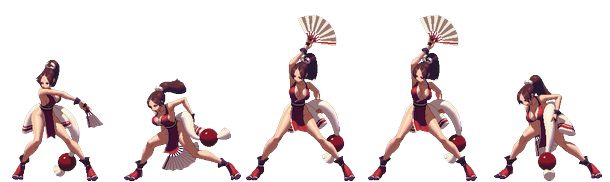
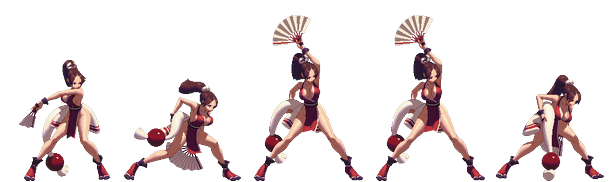
v32b: mirror Mia's sprites so she faces the enemy
Claude-Session: https://claude.ai/code/session_01LZUV48qdYMYHo9JstmyNRU

Changed region(s): [[0.0, 0.0824, 0.9967, 1.0]]

diff --git a/public/index.html b/public/index.html
@@ -1942,7 +1942,7 @@ const ARMOR_OV = {
 */
 const HERO_IMG = {
 };
-const HERO_IMG_VER = 18; // เปลี่ยนภาพแล้วภาพเก่ายังค้าง → เพิ่มเลขนี้ทีละ 1
+const HERO_IMG_VER = 19; // เปลี่ยนภาพแล้วภาพเก่ายังค้าง → เพิ่มเลขนี้ทีละ 1
 function heroImgSVG(cfg){
   const h = cfg.h || 160, w = h, x = -w/2 + (cfg.dx||0), y = -h + (cfg.dy||0);
   const src = cfg.src + (cfg.src.includes('?') ? '&' : '?') + 'v=' + HERO_IMG_VER;
@@ -2016,18 +2016,18 @@ const HERO_SPRITE = {
   // Mia (id stays 'mao' so old saves keep the fighter) — frames cut from mai.png, downscaled ×0.6 and drawn smooth
   mao: { dir:'heroes/mia/', ch:182, scale:1.05, face:'-24 -138 48 48',
     anims:{
-      idle: { n:11, cw:95,  ax:53,  dur:1.6, loop:true },
-      walk: { n:11, cw:118, ax:62,  dur:.9,  loop:true },
-      hurt: { n:4,  cw:112, ax:67,  dur:.6 },
-      dead: { n:5,  cw:173, ax:92,  dur:1.0 },
-      atk1: { n:5,  cw:122, ax:58,  dur:.6,  th:'พัดเสย' },
-      atk2: { n:5,  cw:181, ax:107, dur:.7,  th:'เตะพัดคู่' },
-      atk3: { n:7,  cw:157, ax:92,  dur:.7,  th:'ศอกพุ่ง' },
-      kasen:{ n:5,  cw:151, ax:90,  dur:.7,  th:'คาโชเซ็น (ขว้างพัด)' },
-      roll: { n:11, cw:164, ax:92,  dur:1.0, th:'ชิโนบิบาจิ (ม้วนตัวพุ่ง)' },
-      fin:  { n:12, cw:147, ax:76,  dur:1.5, th:'มุซาซาบิโนะไม' },
-      flip: { n:6,  cw:134, ax:77,  dur:.7,  th:'ตีลังกาหลบ' },
-      taunt:{ n:6,  cw:150, ax:88,  dur:1.0, th:'โพสท่ายั่ว' } },
+      idle: { n:11, cw:95, ax:41,  dur:1.6, loop:true },
+      walk: { n:11, cw:118, ax:55,  dur:.9,  loop:true },
+      hurt: { n:4,  cw:112, ax:43,  dur:.6 },
+      dead: { n:5,  cw:173, ax:79,  dur:1.0 },
+      atk1: { n:5,  cw:122, ax:62,  dur:.6,  th:'พัดเสย' },
+      atk2: { n:5,  cw:181, ax:73, dur:.7,  th:'เตะพัดคู่' },
+      atk3: { n:7,  cw:157, ax:64,  dur:.7,  th:'ศอกพุ่ง' },
+      kasen:{ n:5,  cw:151, ax:60,  dur:.7,  th:'คาโชเซ็น (ขว้างพัด)' },
+      roll: { n:11, cw:164, ax:71,  dur:1.0, th:'ชิโนบิบาจิ (ม้วนตัวพุ่ง)' },
+      fin:  { n:12, cw:137, ax:76,  dur:1.5, th:'มุซาซาบิโนะไม' },
+      flip: { n:6,  cw:134, ax:56,  dur:.7,  th:'ตีลังกาหลบ' },
+      taunt:{ n:6,  cw:150, ax:60,  dur:1.0, th:'โพสท่ายั่ว' } },
     attacks:['atk1','atk2','atk3'], extra:['kasen','roll','flip','taunt'], finisher:'fin', finMin:99,
     finNote:'คำ <b>4–5 ตัว</b> ขว้างพัด · <b>6 ตัว</b> ม้วนตัวพุ่งชน · <b>7 ตัวขึ้นไป</b> ท่าไม้ตาย<b>มุซาซาบิโนะไม</b>' },
   x: { dir:'heroes/x/', ch:80, scale:2.5, face:'-20 -110 40 40',                  // v32: was 3.9
